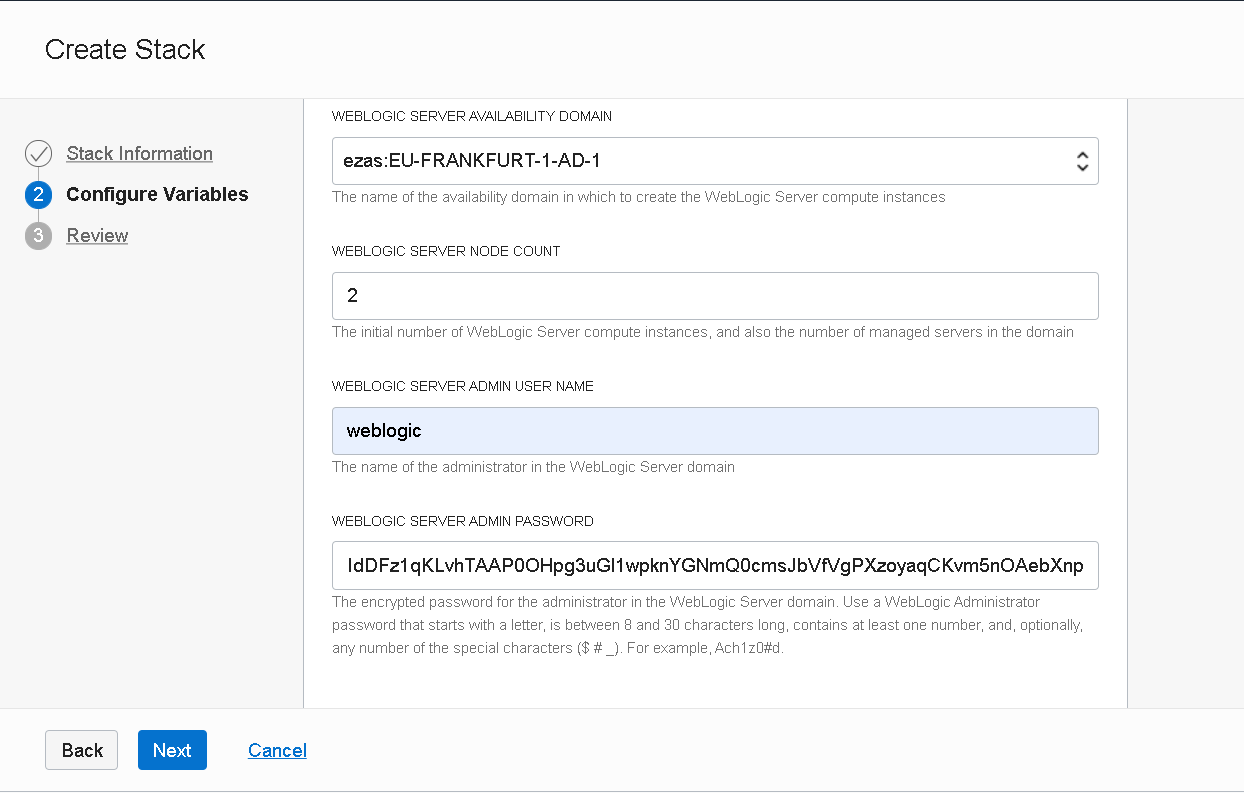
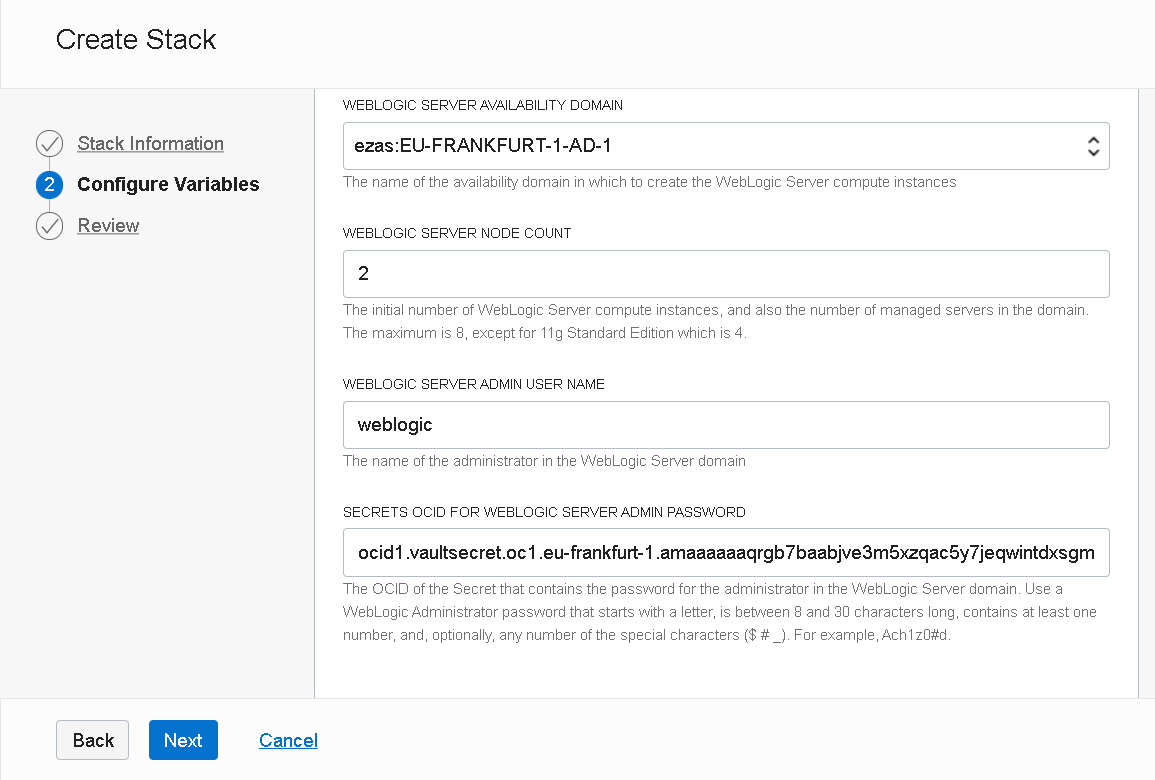
Adapt to OCI secrets for WLS Admin password

diff --git a/wlscnonjrfprereq.md b/wlscnonjrfprereq.md
@@ -1,9 +1,9 @@
-# WebLogic Cloud - non JRF
+# WebLogic for OCI - non JRF
 
 ## prerequisites
 
 
-If you want go through the Hands on Lab (*non JRF type of WebLogic Cloud Instance - using Oracle Cloud Marketplace*) using your cloud environment, follow this guide to setup some prerequisites. If you will use the provided Cloud Test Drive environment, skip this Lab.
+If you want go through the Hands on Lab (*non JRF type of WebLogic for OCI Instance - using Oracle Cloud Marketplace*) using your cloud environment, follow this guide to setup some prerequisites. If you will use the provided Cloud Test Drive environment, skip this Lab.
 
 
 ### Step 1. Prepare OCI Compartment
@@ -22,13 +22,53 @@ The Compartment name is referred as **CTDOKE** in the Hands on Lab.
 
 
 
-### Step 2. Encrypt WebLogic Admin password
+##### Required root level policies for WebLogic for OCI
 
-When you provision WebLogic for you need to pass the WebLogic Admin password encrypted. An OCI Key is required for this.  
+You must be an Oracle Cloud Infrastructure <u>administrator</u>, or <u>be granted some root-level permissions</u>, in order to create domains with Oracle WebLogic Server for Oracle Cloud Infrastructure.
+
+When you create a domain, Oracle WebLogic Server for Oracle Cloud Infrastructure creates a dynamic group and root-level policies that allow the compute instances in the domain to:
+
+- Access keys and secrets in Oracle Cloud Infrastructure Vault
+- Access the database wallet if you're using Oracle Autonomous Transaction Processing (JRF-enabled domains)
 
 
 
-##### Create a Key Vault
+In case <u>you are not an OCI administrator</u> and you cannot create dynamic-groups or you cannot create policies at root compartment level, please contact your OCI administrator and request that one  of the groups your OCI user is part of to have the following grants in place:
+
+> Allow group MyGroup to manage dynamic-groups in tenancy
+> Allow group MyGroup to manage policies in tenancy
+> Allow group MyGroup to use tag-namespaces in tenancy
+
+
+
+##### Required compartment level policies for WebLogic for OCI
+
+If <u>you are not an Oracle Cloud Infrastructure administrator</u>, you must be given management access to resources in the compartment in which you want to create a domain.
+
+Your Oracle Cloud Infrastructure user must have management access for Marketplace applications, Resource Manager stacks and jobs, compute instances, and block storage volumes. If you want Oracle WebLogic Server for Oracle Cloud Infrastructure to create resources for a domain like networks and load balancers, you must also have management access for these resources.
+
+A policy that entitles your OCI user to have the minimum management access for your compartment, needs to have the following grants in place:
+
+> Allow group MyGroup to manage instance-family in compartment MyCompartment
+> Allow group MyGroup to manage virtual-network-family in compartment MyCompartment
+> Allow group MyGroup to manage volume-family in compartment MyCompartment
+> Allow group MyGroup to manage load-balancers in compartment MyCompartment
+> Allow group MyGroup to manage orm-family in compartment MyCompartment
+> Allow group MyGroup to manage app-catalog-listing in compartment MyCompartment
+> Allow group MyGroup to manage vaults in compartment MyCompartment
+> Allow group MyGroup to manage keys in compartment MyCompartment
+> Allow group MyGroup to manage secret-family in compartment MyCompartment
+> Allow group MyGroup to read metrics in compartment MyCompartment
+
+
+
+### Step 2. Create OCI Secret for WebLogic Admin password
+
+When you provision WebLogic for you need to pass the WebLogic Admin password. An OCI Secret is required for this.  
+
+
+
+##### Create a Security Vault
 
 Go to *Governance and Administration* > *Security* > *Key Management*:
 
@@ -36,7 +76,7 @@ Go to *Governance and Administration* > *Security* > *Key Management*:
 
 
 
-Create a new Shared Vault:
+Create a new Shared Vault (leave the *Make it a Virtual Private Vault* option unchecked):
 
 ![](images/wlscnonjrfwithenvprereq/image020.png)
 
@@ -48,13 +88,15 @@ The new Vault should be listed as Active:
 
 
 
-Take a look at the Vault Information and note the  **Cryptographic Endpoint**:
+Take a look at the Vault Information:
 
 ![](images/wlscnonjrfwithenvprereq/image035.png)
 
 
 
-Create an new Key:
+##### Create an Encryption Key
+
+Go to *Master Encryption Keys* submenu of the Vault Information page and create an new Key:
 
 ![](images/wlscnonjrfwithenvprereq/image040.png)
 
@@ -72,114 +114,35 @@ The new key should be listed as *Enabled*:
 
 
 
-Click on the key and note the key's **OCID**:
+##### Create an OCI Secret
 
-![](images/wlscnonjrfwithenvprereq/image056.png)
+Go to *Secrets* submenu of the Vault Information page and create an new Secret:
 
+![](images/wlscnonjrfwithenvprereq/image700.png)
 
 
-##### Encrypt WebLogic Admin password
 
-User OCI Cloud shell:
+Setup a name for the OCI Secret; choose previously created Encryption Key (**WLSKey**) in the *Encryption Key* dropdown. If you leave default value for *Secret Type Template* (**Plain-Text**), you have to enter the plain WebLogic Admin password in the *Secret Contents* aria. If you switch to **Base64** template, you need to provide the password pre-encoded in base64.
 
-![](images/wlscnonjrfwithenvprereq/image110.png)
+> The password must start with a letter, should be between 8 and 30 characters long, should contain at least one number, and, optionally, any number of the special characters ($ # _).
 
+![image-20200526091220470](images/wlscnonjrfwithenvprereq/image710.png)
 
 
-Shell appears in the bottom of the screen:
 
-![](images/wlscnonjrfwithenvprereq/image120.png)
+Shortly, the Secret should be listed as *Active*:
 
+![image-20200526091948283](images/wlscnonjrfwithenvprereq/image720.png)
 
 
-First, we need to encode the WebLogic Admin password in base64 format:
 
-![](images/wlscnonjrfwithenvprereq/image022.png)
+Click on the Secret name and take note of its **OCID**. We need to provide this value in the WebLogic for OCI Stack configuration form:
 
+![image-20200526092054260](images/wlscnonjrfwithenvprereq/image730.png)
 
 
-Command:
 
-> echo -n 'WebLogic Admin password' | base64
-
-
-
-Then, we'll use the Vault Key to encrypt the base64 encoded password:
-
-![](images/wlscnonjrfwithenvprereq/image124.png)
-
-
-
-Command:
-
-> oci kms crypto encrypt --key-id Key_OCID --endpoint Vault_Cryptographic_Endpoint --plaintext Base64_Encoded_Password
-
-
-
-The *ciphertext* value from the response represents the encrypted password. Use this value instead of the provided sample from the Hand on Lab given in **weblogic_password_encrypted.txt** text file.
-
-
-
-Use your Key OCID and Vault Cryptographic Endpoint values as the **Key Management Service Key Id**
-and **Key Management Service Cryptographic Endpoint** parameters instead of sample values mentioned in the Hands on Lab.
-
-
-
-### Step 3.  Create required policy for accessing the Vault Key
-
-##### Create a Dynamic Group
-
-We need to create a Dynamic Group that will group all instances in the compartment.
-
-Go to *Governance and Administration* -> *Identity* -> *Dynamic Groups*
-
-![](images/wlscnonjrfwithenvprereq/image560.png)
-
-
-
-Create a new Dynamic Group:
-
-![](images/wlscnonjrfwithenvprereq/image570.png)
-
-
-
-Give a meaningful name and description.
-
-For the matching rule use:
-
-> ALL {instance.compartment.id = 'your compartment ocid'}
-
-
-
-##### Create Policy for Dynamic Group
-
-We need to create a policy that will allow stack scripts to access the key vault and decrypt encrypted WebLogic Admin password.
-
-
-
-Go to *Governance and Administration* -> *Identity* -> *Policies*
-
-![](images/wlscnonjrfwithenvprereq/image580.png)
-
-
-
-![](images/wlscnonjrfwithenvprereq/image585.png)
-
-Create a new Policy:
-
-![](images/wlscnonjrfwithenvprereq/image590.png)
-
-Give a name and description.
-
-For the policy statement use:
-
-> Allow dynamic-group <dynamic group name> to use keys in compartment <compartment name>
-
-Specify Dynamic Group's name created earlier and your compartment name.
-
-
-
-### Step 4. Network Configuration
+### Step 3. Network Configuration
 
 The Hands on Lab guide uses an existing Virtual Cloud Network and pre-configured Subnets for the WebLogic compute nodes and for the Load Balancer.
 
@@ -205,7 +168,7 @@ Also for the Load Balancer:
 
 
 
-###  Step 5. Create ssh keys
+###  Step 4. Create ssh keys
 
 You need to generate a public and private ssh key pair. During provisioning using Marketplace, you have to specify the ssh public key that will be associated with each of the WebLogic VM nodes.
 
@@ -237,7 +200,7 @@ The public key filename is referred as **wls_ssh_public.key** in the Hands on La
 
 
 
-### Step 6. Load balancer SSL configuration
+### Step 5. Load balancer SSL configuration
 
 For security reasons it's a good practice - if not mandatory - to allow only secured traffic between clients and WebLogic Server applications. Therefore, after provisioning WebLogic for OCI by choosing to setup a Load Balancer, it's necessary to manually finish SSL configuration by adding a SSL certificate to the load balancer's listener.
 

diff --git a/wlscnonjrf.md b/wlscnonjrf.md
@@ -79,12 +79,21 @@ This Hands on Lab will go through the process of creating a non JRF type of WebL
 - Continue setting up:
 
   - **WebLogic Server Availability Domain**: choose one of the three ADs
+  
   - **WebLogic Server Node count**: *2* (we will create a WebLogic cluster with two nodes / managed servers)
+  
   - **Admin user name**: *weblogic*
-  - **Admin password**: enter the *encrypted* WebLogic Admin password;  see provided *weblogic_password_encrypted.txt* file; for obtaining this, a Virtual Vault Key was used for encrypting the base64 encoded password;
+  
+  - **Secrets OCID for WebLogic Server Admin Password**: 
+  
+    - if you are using the CTD (Cloud Test Drive) environment enter: 
+      - *ocid1.vaultsecret.oc1.eu-frankfurt-1.amaaaaaaqrgb7baabjve3m5xzqac5y7jeqwintdxsgmyxezuwjm35n3r55la*
+      - a bit of context: the WebLogic Server Admin Password it's stored in an OCI Vault as an OCI Secret (encrypted with an OCI Encryption Key); during WebLogic Domain creation, the provisioning scripts will setup the admin password by getting it from the OCI Secret instead of having it as a Terraform variable; in a similar way - if talking about an JRF enabled domains - the database admin password will be referred from an OCI Secret
+  
+    - if you are using your own environment and you have followed the *Prerequisites* lab, fill in the OCI Secret OCID that you have created at step *Create OCI Secret for WebLogic Admin password* > *Create OCI Secret*
 
 
-![](images/wlscnonjrfwithenv/image110.png)
+![image-20200526141855489](images/wlscnonjrfwithenv/image110.png)
 
 
 
@@ -119,23 +128,9 @@ This Hands on Lab will go through the process of creating a non JRF type of WebL
 
 
 
-- Leave Identity Cloud Service Integration as default (no integration) and *No Database* for **Database Strategy**
+- Finally, leave Identity Cloud Service Integration as default (no integration) and *No Database* for **Database Strategy**
 
 ![](images/wlscnonjrfwithenv/image150.png)
-
-
-
-- Finally, configure Key Management Service; previously we have provided a pre-encrypted password for WebLogic admin user; for the Stack scripts being able to decrypt it on the fly (without storing anywhere the password in plain text mode), they needs the Vault Key Id used for encryption and the Key Management Service Cryptographic Endpoint:
-
-  - **Key Management Service Key Id**: use existing (copy & paste in one line):
-
-  > ocid1.key.oc1.eu-frankfurt-1.bfoz5szoaafak.abtheljsw5qx4fxv3kzeqx6ih6obdtwi7434qbgeom5h3vzmyejtgakgswha
-
-  - **Key Management Service Cryptographic Endpoint**: https://bfoz5szoaafak-crypto.kms.eu-frankfurt-1.oraclecloud.com
-
-- Click **Next**
-
-![](images/wlscnonjrfwithenv/image160.png)
 
 
 
